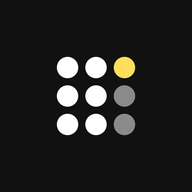
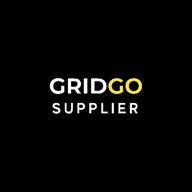
Use the Supplier and Rider home-screen wordmarks on /download. (#8)
GRIDGO keeps the 3x3 mark. Supplier and Rider now use the GRIDGO wordmark lockup with the role line, matching the tiles on the phone.

Changed region(s): [[0.25, 0.2812, 0.75, 0.7188]]

diff --git a/src/utils/landingLinks.ts b/src/utils/landingLinks.ts
@@ -18,9 +18,9 @@ export type GridgoApp = {
   /** Plain language, for someone who does not know which app is theirs. */
   whoItIsFor: string;
   /**
-   * Public path to this app's launcher mark. The files under
-   * `public/app-icons/` are the same 3×3 each Android build paints on
-   * the home screen, not a generic phone glyph.
+   * Public path to this app's home-screen icon. Client uses the 3×3
+   * mark; Supplier and Rider use the GRIDGO wordmark lockup with the
+   * role line, matching the tiles on the phone.
    */
   icon: string;
 };

diff --git a/src/DownloadPage.tsx b/src/DownloadPage.tsx
@@ -106,9 +106,9 @@ function AppCard({ app, index, featured }: { app: GridgoApp; index: number; feat
         <img
           src={app.icon}
           alt=""
-          width={56}
-          height={56}
-          className={`w-14 h-14 rounded-2xl mb-7 ${
+          width={72}
+          height={72}
+          className={`w-[72px] h-[72px] rounded-2xl mb-7 ${
             featured
               ? 'shadow-[0_0_20px_rgba(255,222,88,0.3)] ring-1 ring-[var(--color-primary)]/40'
               : 'ring-1 ring-black/10 dark:ring-white/10'
